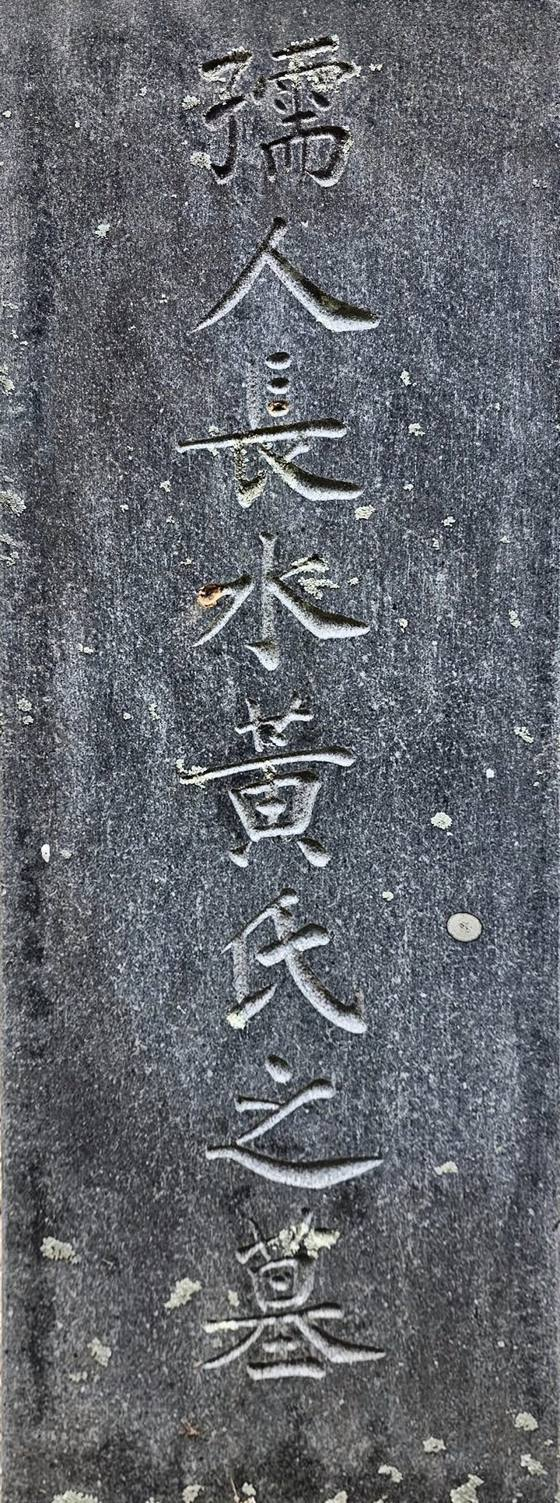
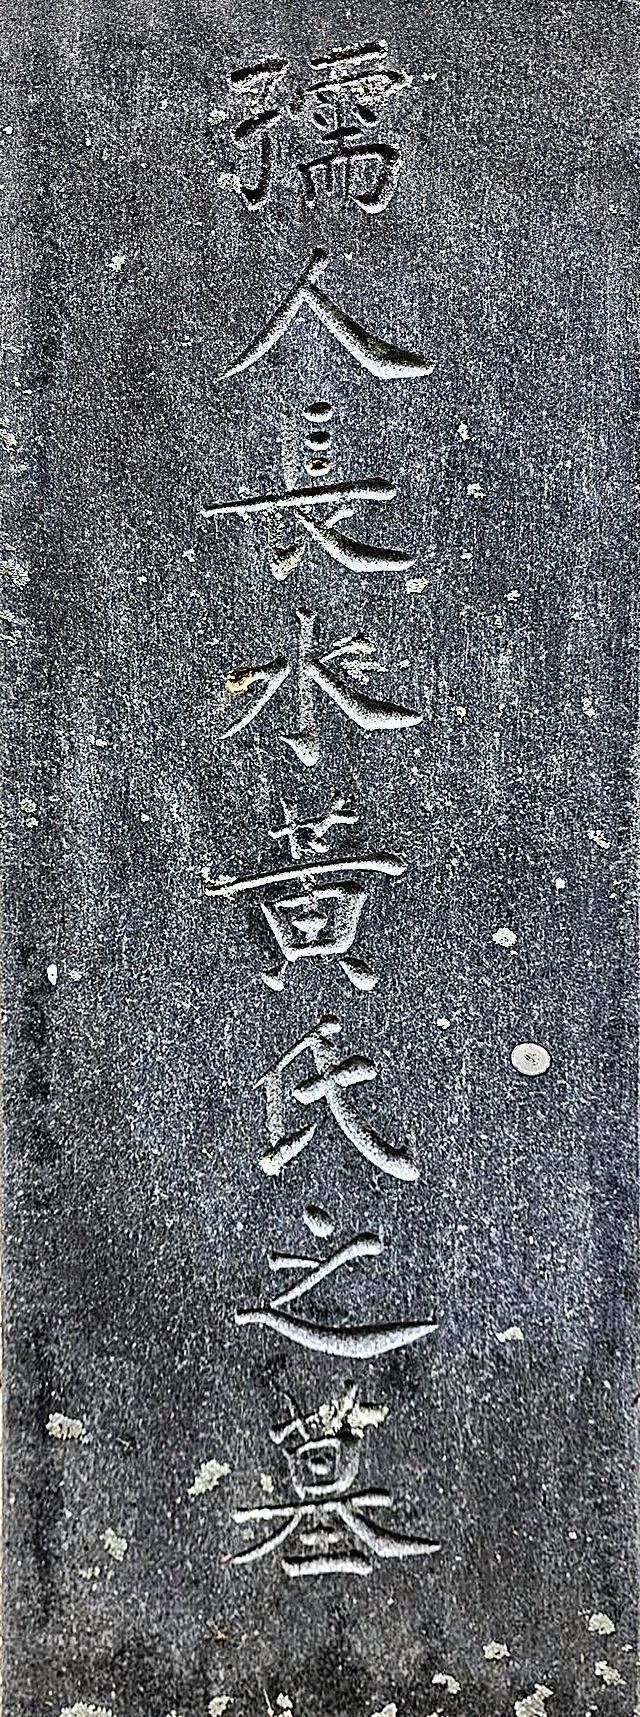
추모 히어로: 겹치기 대신 국화·비석을 나란히 두고 경계만 그라데이션, 비석 글씨 선명하게
Claude-Session: https://claude.ai/code/session_01VxAiHQdSnMw5JNCBH9HMFb

Changed region(s): [[0.0, 0.0, 1.0, 1.0]]

diff --git a/css/landing.css b/css/landing.css
@@ -232,24 +232,28 @@ footer a.staff{color:var(--muted)}
 .ask-mini .dh-consult-opts .check input{accent-color:var(--main)}
 .ask-mini .dh-consult-msg.bad{color:var(--bad)}
 
-/* ---- 추모 히어로: 국화 배경 위에 비석 사진을 겹친다 ---- */
-.hero.memorial{min-height:min(78vh,620px);display:flex;align-items:center;background:#f3f1ee url("../images/hero-bg.jpg") center 40%/cover no-repeat}
-.hero.memorial::before{background:linear-gradient(90deg,rgba(248,246,243,.97) 0%,rgba(248,246,243,.92) 38%,rgba(248,246,243,.55) 60%,rgba(248,246,243,.15) 100%)}
-.hero.memorial .hero-stone{position:absolute;top:0;bottom:0;right:clamp(40px,22vw,330px);width:clamp(200px,30vw,380px);pointer-events:none}
-.hero.memorial .hero-stone img{width:100%;height:100%;object-fit:cover;object-position:center 30%;mix-blend-mode:multiply;opacity:.62;filter:grayscale(.55) contrast(1.08);
-  -webkit-mask-image:radial-gradient(ellipse 50% 52% at 50% 50%,#000 25%,rgba(0,0,0,.5) 60%,transparent 100%);mask-image:radial-gradient(ellipse 50% 52% at 50% 50%,#000 25%,rgba(0,0,0,.5) 60%,transparent 100%)}
-.hero.memorial .wrap{width:100%}
-.hero.memorial .hero-text{padding:90px 0 96px;max-width:560px}
-.hero.memorial h1{font-size:clamp(30px,4.6vw,46px);font-weight:700;letter-spacing:-.02em;color:#2b2628;margin:0 0 34px}
+/* ---- 추모 히어로: [글] [국화] [비석] 나란히, 경계는 그라데이션으로 이어 붙임 ---- */
+.hero.memorial{--bg:#f6f4f1;background:var(--bg);height:min(80vh,640px);min-height:440px}
+.hero.memorial::before{display:none}
+.hero.memorial .hero-pics{position:absolute;top:0;right:0;bottom:0;width:66%;display:flex;justify-content:flex-end}
+.hero.memorial .pic-flower{flex:1;background:url("../images/hero-bg.jpg") 38% 40%/cover no-repeat;
+  -webkit-mask-image:linear-gradient(90deg,transparent 0%,#000 45%);mask-image:linear-gradient(90deg,transparent 0%,#000 45%)}
+.hero.memorial .pic-stone{position:relative;height:100%;aspect-ratio:640/1717;margin-left:-90px;
+  -webkit-mask-image:linear-gradient(90deg,transparent 0,#000 90px);mask-image:linear-gradient(90deg,transparent 0,#000 90px)}
+.hero.memorial .pic-stone img{display:block;width:100%;height:100%;object-fit:cover;object-position:center top}
+.hero.memorial .wrap{position:relative;height:100%;display:flex;align-items:center}
+.hero.memorial .hero-text{padding:0;max-width:440px}
+.hero.memorial h1{font-size:clamp(30px,4.2vw,44px);font-weight:700;letter-spacing:-.02em;color:#2b2628;margin:0 0 34px;word-break:keep-all}
 .hero-go{display:inline-flex;align-items:center;gap:8px;font-size:15px;color:#6a5f63;text-decoration:none;border-bottom:1px solid rgba(106,95,99,.45);padding-bottom:3px;transition:color .2s,border-color .2s}
 .hero-go span{transition:transform .2s}
 .hero-go:hover{color:var(--main);border-color:var(--main)}
 .hero-go:hover span{transform:translateX(4px)}
 @media (max-width:720px){
-  .hero.memorial{min-height:0;background-position:center 35%}
-  .hero.memorial::before{background:linear-gradient(180deg,rgba(248,246,243,.94) 0%,rgba(248,246,243,.82) 60%,rgba(248,246,243,.6) 100%)}
-  .hero.memorial .hero-stone{right:28px;width:150px;top:0;bottom:0}
-  .hero.memorial .hero-stone img{opacity:.55}
-  .hero.memorial .hero-text{padding:96px 150px 96px 0}
-  .hero.memorial h1{font-size:27px;margin-bottom:24px}
+  .hero.memorial{height:auto;min-height:0;display:flex;flex-direction:column}
+  .hero.memorial .wrap{order:1;width:100%;box-sizing:border-box;height:auto;padding-top:44px;padding-bottom:28px}
+  .hero.memorial h1{font-size:28px;margin-bottom:20px}
+  .hero.memorial .hero-pics{order:2;position:relative;width:100%;height:440px;
+    -webkit-mask-image:linear-gradient(180deg,transparent 0,#000 50px);mask-image:linear-gradient(180deg,transparent 0,#000 50px)}
+  .hero.memorial .pic-flower{background-position:45% 40%}
+  .hero.memorial .pic-stone{margin-left:-60px;-webkit-mask-image:linear-gradient(90deg,transparent 0,#000 60px);mask-image:linear-gradient(90deg,transparent 0,#000 60px)}
 }

diff --git a/index.html b/index.html
@@ -29,7 +29,7 @@
 </header>
 
 <div class="hero memorial">
-  <div class="hero-stone" aria-hidden="true"><img src="images/memorial.jpg" alt=""></div>
+  <div class="hero-pics" aria-hidden="true"><div class="pic-flower"></div><div class="pic-stone"><img src="images/memorial.jpg" alt=""></div></div>
   <div class="wrap">
     <div class="hero-text">
       <h1>당신을 기억하겠습니다</h1>
